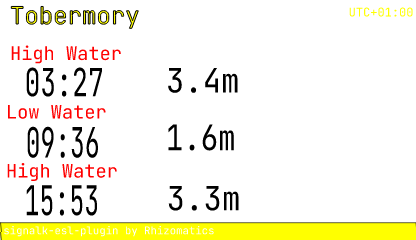
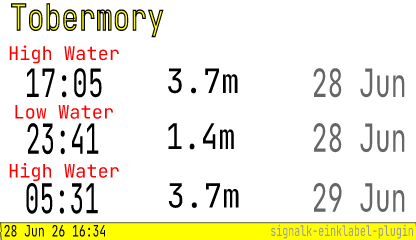
rename new options

diff --git a/src/render/binding.test.ts b/src/render/binding.test.ts
@@ -85,6 +85,18 @@ test('resolveBinding', async (t) => {
       /resource "waypoints" which is not present/,
     );
   });
+
+  await t.test('reads an einklabel-sourced binding from context.meta', () => {
+    const metaContext: TemplateContext = { ...context, meta: { repainted: '2026-06-21T18:05:00Z' } };
+    assert.equal(resolveBinding(parseBinding('source=einklabel,path=repainted'), metaContext), '2026-06-21T18:05:00Z');
+  });
+
+  await t.test('throws when no meta is present in the render context', () => {
+    assert.throws(
+      () => resolveBinding(parseBinding('source=einklabel,path=repainted'), context),
+      /source "einklabel" but no "meta" is present/,
+    );
+  });
 });
 
 test('renderBinding', async (t) => {
@@ -122,5 +134,10 @@ test('renderBinding', async (t) => {
   await t.test('falls through to String() for anything else', () => {
     const context: TemplateContext = { signalk: { self: { a: true } } };
     assert.equal(renderBinding(parseBinding('path=a'), context), 'true');
+  });
+
+  await t.test('source=einklabel,format=local_datetime_short renders the repaint timestamp', () => {
+    const context: TemplateContext = { signalk: { self: {} }, meta: { repainted: '2026-06-21T18:05:00Z' } };
+    assert.equal(renderBinding(parseBinding('source=einklabel,path=repainted,format=local_datetime_short'), context), '21 Jun 26 18:05');
   });
 });

diff --git a/src/render/formatters.test.ts b/src/render/formatters.test.ts
@@ -41,6 +41,14 @@ test('applyFormat', async (t) => {
     assert.equal(applyFormat('day_mon', '2026-06-28T12:00:00Z', context, undefined), '28 Jun');
   });
 
+  await t.test('local_datetime_short formats day, abbreviated month, 2-digit year and 24h time', () => {
+    assert.equal(applyFormat('local_datetime_short', '2026-06-21T17:05:00Z', context, undefined), '21 Jun 26 18:05');
+  });
+
+  await t.test('local_datetime_short returns empty string for a non-string value', () => {
+    assert.equal(applyFormat('local_datetime_short', 42, context, undefined), '');
+  });
+
   await t.test('utc_offset shows a fixed-offset zone\'s numeric UTC offset', () => {
     assert.equal(applyFormat('utc_offset', 'Etc/UTC', context, undefined), 'UTC+00:00');
   });

diff --git a/src/render/formatters.ts b/src/render/formatters.ts
@@ -55,7 +55,7 @@ function formatDayMonth(value: unknown, context: TemplateContext): string {
 }
 
 /** e.g. "21 Jun 26 18:05" - day of month (no leading zero), abbreviated month, 2-digit year, and 24h time, in the local vessel's timezone. */
-function formatDateDmyHm(value: unknown, context: TemplateContext): string {
+function formatLocalDatetimeShort(value: unknown, context: TemplateContext): string {
   if (typeof value !== 'string') return '';
   const dt = DateTime.fromISO(value, { zone: 'utc' }).setZone(selfTimezone(context));
   return dt.isValid ? dt.toFormat('d MMM yy HH:mm') : '';
@@ -90,7 +90,7 @@ export function applyFormat(name: string, value: unknown, context: TemplateConte
     case 'day_mon':
       return formatDayMonth(value, context);
     case 'local_datetime_short':
-      return formatDateDmyHm(value, context);
+      return formatLocalDatetimeShort(value, context);
     case 'utc_offset':
       return formatUtcOffset(value);
     case 'position':